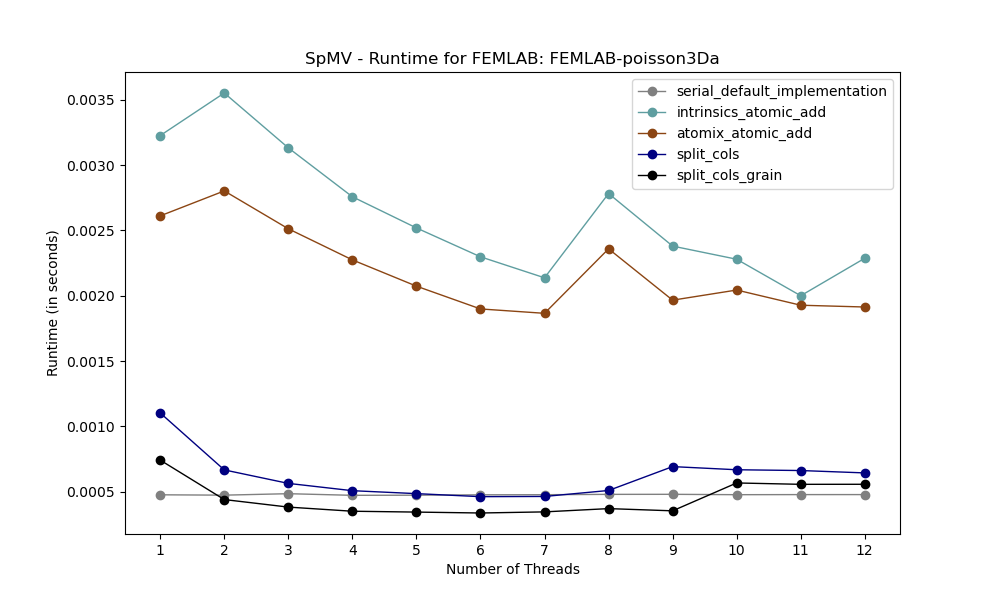
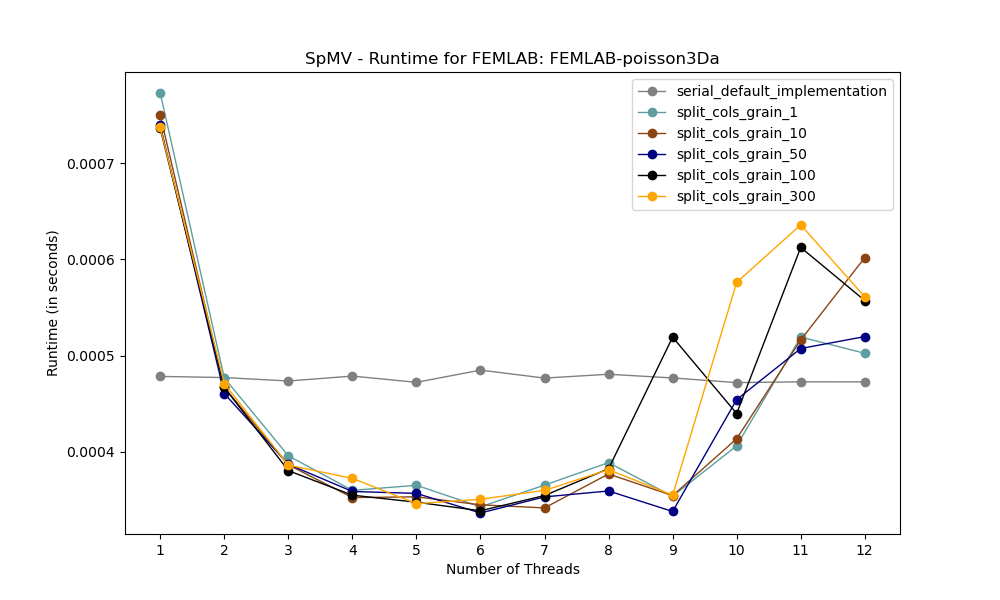
plot result

diff --git a/parallel/spmv/graph.py b/parallel/spmv/graph.py
@@ -16,13 +16,9 @@ METHODS = [
     "intrinsics_atomic_add",
     "atomix_atomic_add",
     "split_cols",
-    "split_cols_grain",
-    # "split_nonzeros",
-    # "split_nonzeros_grain_10",
-    # "split_nonzeros_grain_50",
-    # "split_nonzeros_grain_100",
-    # "split_nonzeros_grain_300",
-    # "split_nonzeros_grain_500",
+    "split_cols_grain_50",
+    "split_nonzeros",
+    "split_nonzeros_grain_500",
 ]
 
 DATASETS = [
